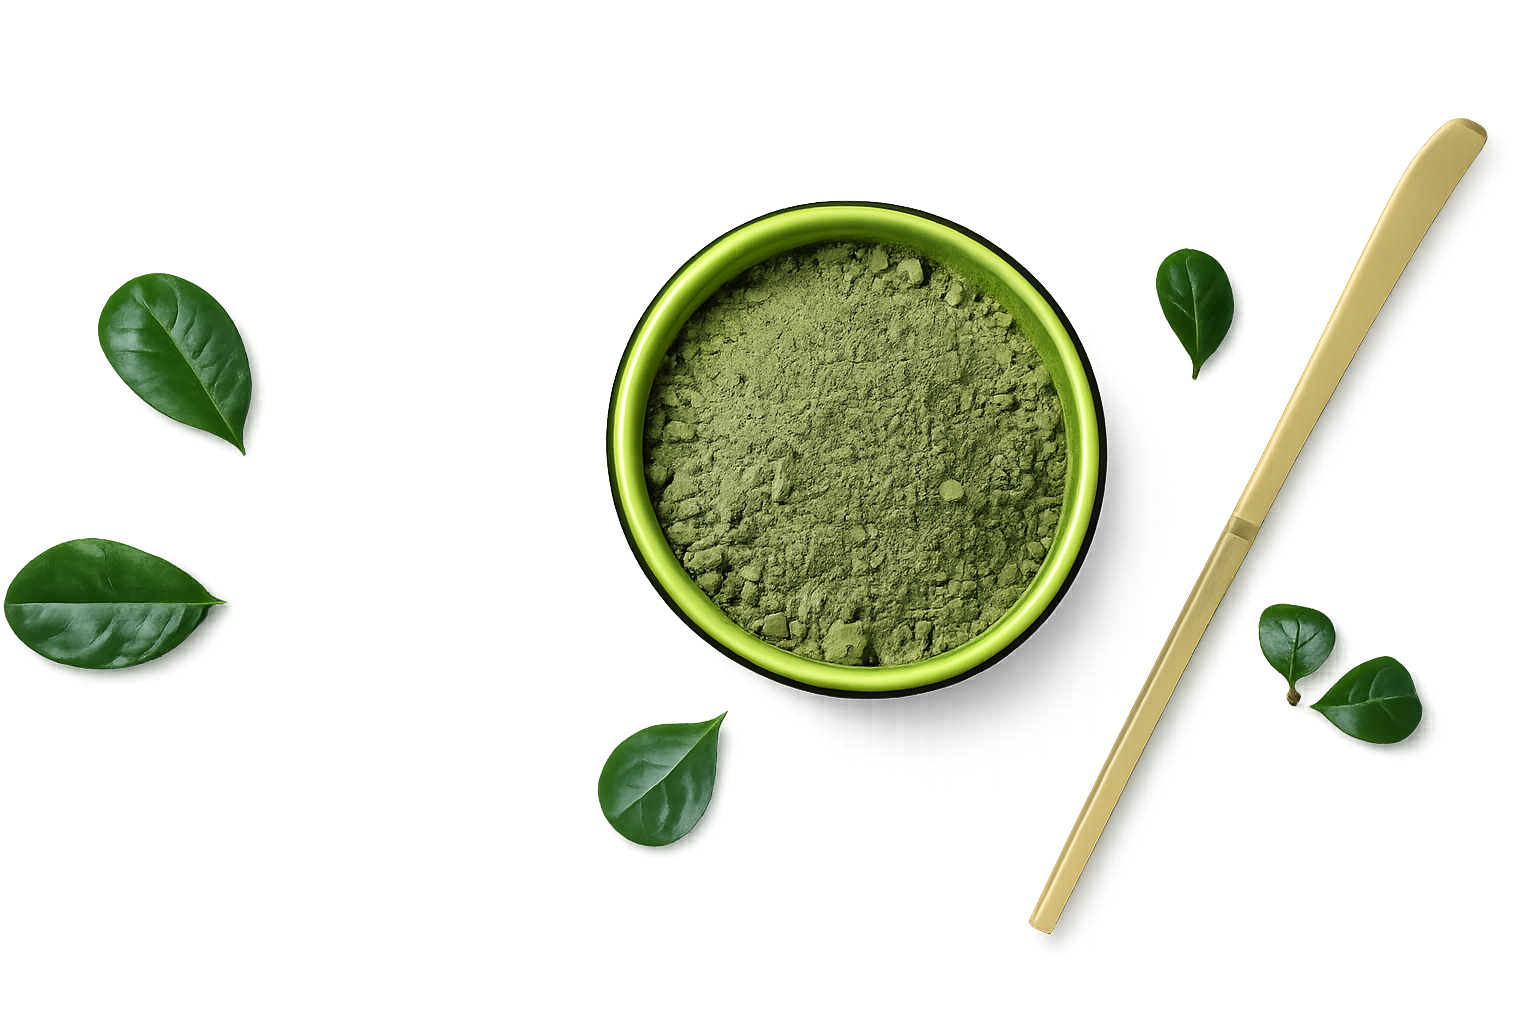
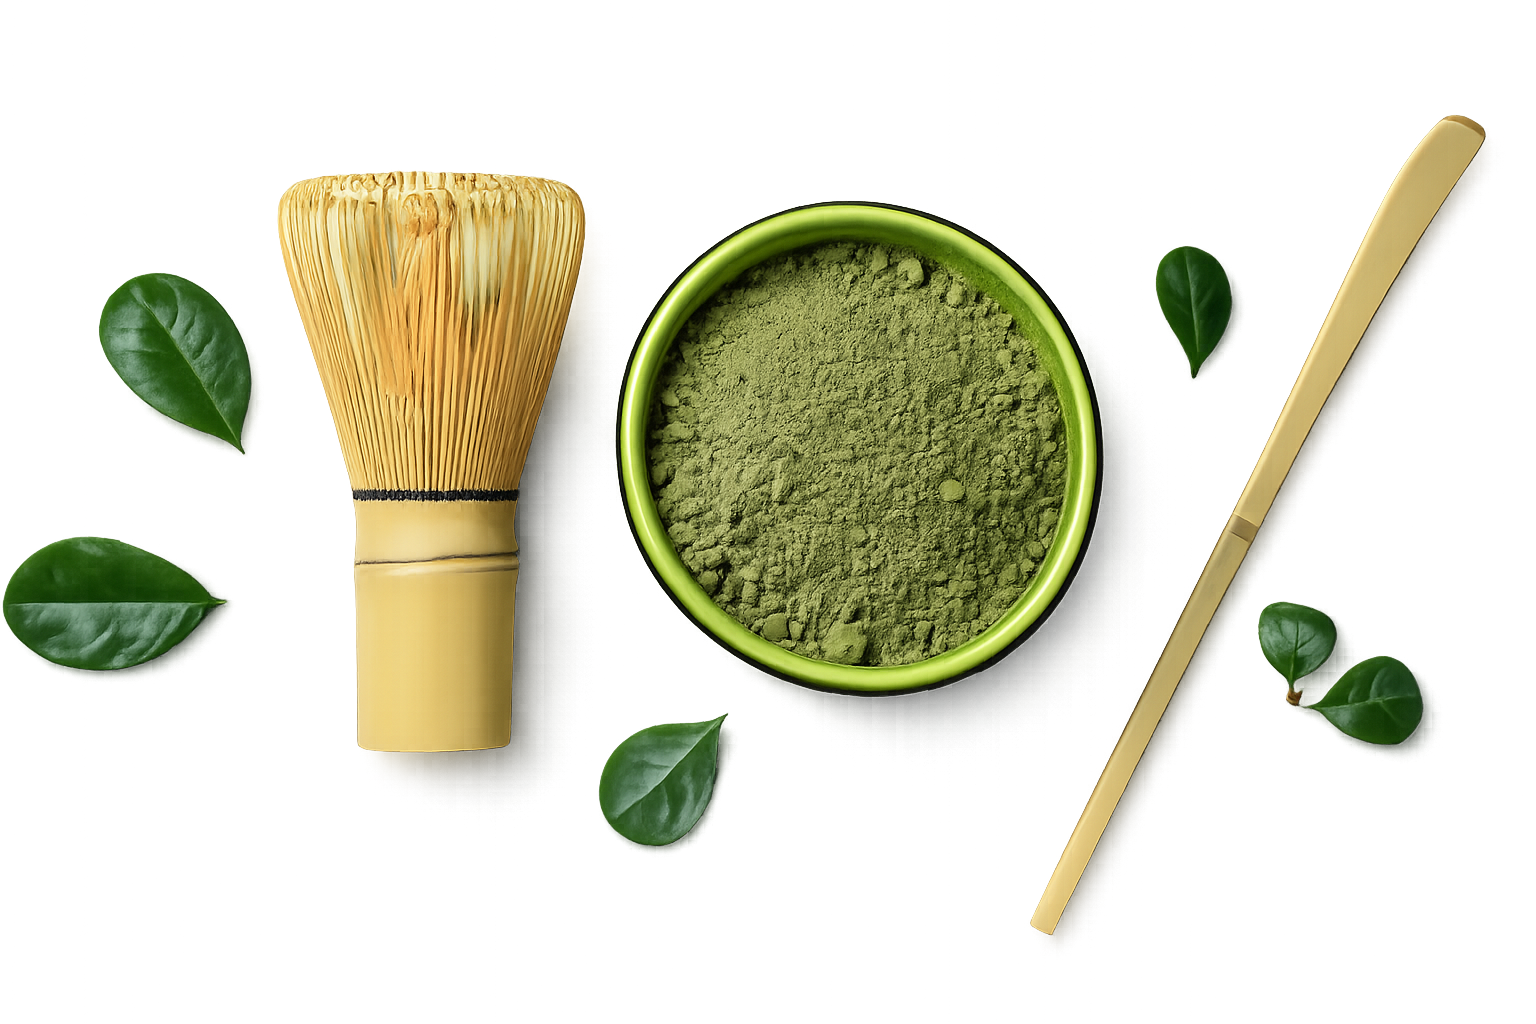
fırça konumu ayarlanıyor

diff --git a/src/sections/home/HeroSection.tsx b/src/sections/home/HeroSection.tsx
@@ -5,6 +5,7 @@ import { motion, useScroll, useTransform } from "framer-motion";
 import { useRef } from "react";
 import Container from "@/components/ui/Container";
 import Button from "@/components/ui/Button";
+import MatchaShowcase from "./MatchaShowcase";
 
 export default function HeroSection() {
   const sectionRef = useRef<HTMLElement | null>(null);
@@ -21,17 +22,23 @@ export default function HeroSection() {
 
   const sceneY = useTransform(scrollYProgress, [0, 1], [0, 90]);
 
-  const whiskX = useTransform(
-    scrollYProgress,
-    [0, 0.45, 0.75, 1],
-    [-90, -320, -800, -730]
-  );
+const whiskX = useTransform(
+  scrollYProgress,
+  [0, 0.45, 0.75, 0.9, 1],
+  [-190, -120, -800, -790, -580]
+);
+
   const whiskY = useTransform(
     scrollYProgress,
-    [0, 0.45, 0.75, 1],
-    [0, 260, 820, 1000]
+    [0, 0.45, 0.75, 0.9, 1],
+    [0, 560, 840, 1100, 1570]
   );
-  const whiskRotate = useTransform(scrollYProgress, [0, 0.6, 1], [-10, -4, 10]);
+
+const whiskRotate = useTransform(
+  scrollYProgress,
+  [0, 0.4, 0.55, 0.75, 1],
+  [-8, -3, 180, 10, 6]
+);
   const whiskScale = useTransform(scrollYProgress, [0, 1], [1, 0.96]);
 
   const powderY = useTransform(scrollYProgress, [0, 1], [70, 80]);
@@ -126,7 +133,7 @@ export default function HeroSection() {
             style={{ y: textY }}
             className="order-2 relative z-10 max-w-2xl md:order-1 md:-mt-24"
           >
-              <motion.span
+            <motion.span
               initial={{ opacity: 0, y: 14 }}
               animate={{ opacity: 1, y: 0 }}
               transition={{ duration: 0.55 }}
@@ -249,9 +256,29 @@ export default function HeroSection() {
                 sunum için tasarlanan bu özel araç, ritüelinizi tamamlar.
               </p>
             </div>
+
           </div>
         </Container>
+        <div className="relative z-20 mt-[160px] md:mt-[260px]">
+          <div className="relative z-20 mt-[120px] md:mt-[200px]">
+            <Container>
+              <div className="relative flex justify-center">
+                <div className="absolute inset-x-1/2 top-[58%] -z-10 h-[180px] w-[280px] -translate-x-1/2 rounded-full bg-[#dce8d8]/60 blur-3xl md:h-[240px] md:w-[420px]" />
+
+                <Image
+                  src="/images/hero/matcha-collection.png"
+                  alt="Matcha, bowl ve bambu whisk koleksiyonu"
+                  width={1600}
+                  height={900}
+                  priority
+                  className="h-auto w-[420px] max-w-full object-contain sm:w-[520px] md:w-[700px]"
+                />
+              </div>
+            </Container>
+          </div>
+        </div>
       </div>
+
     </section>
   );
 }

diff --git a/src/app/page.tsx b/src/app/page.tsx
@@ -1,6 +1,6 @@
 import Navbar from "@/components/layout/Navbar";
 import HeroSection from "@/sections/home/HeroSection";
-import MatchaShowcase from "@/sections/home/MatchaShowcase";
+
 
 export default function HomePage() {
   return (
@@ -8,7 +8,6 @@ export default function HomePage() {
       <Navbar />
       <main>
         <HeroSection />
-        <MatchaShowcase />
       </main>
     </>
   );
